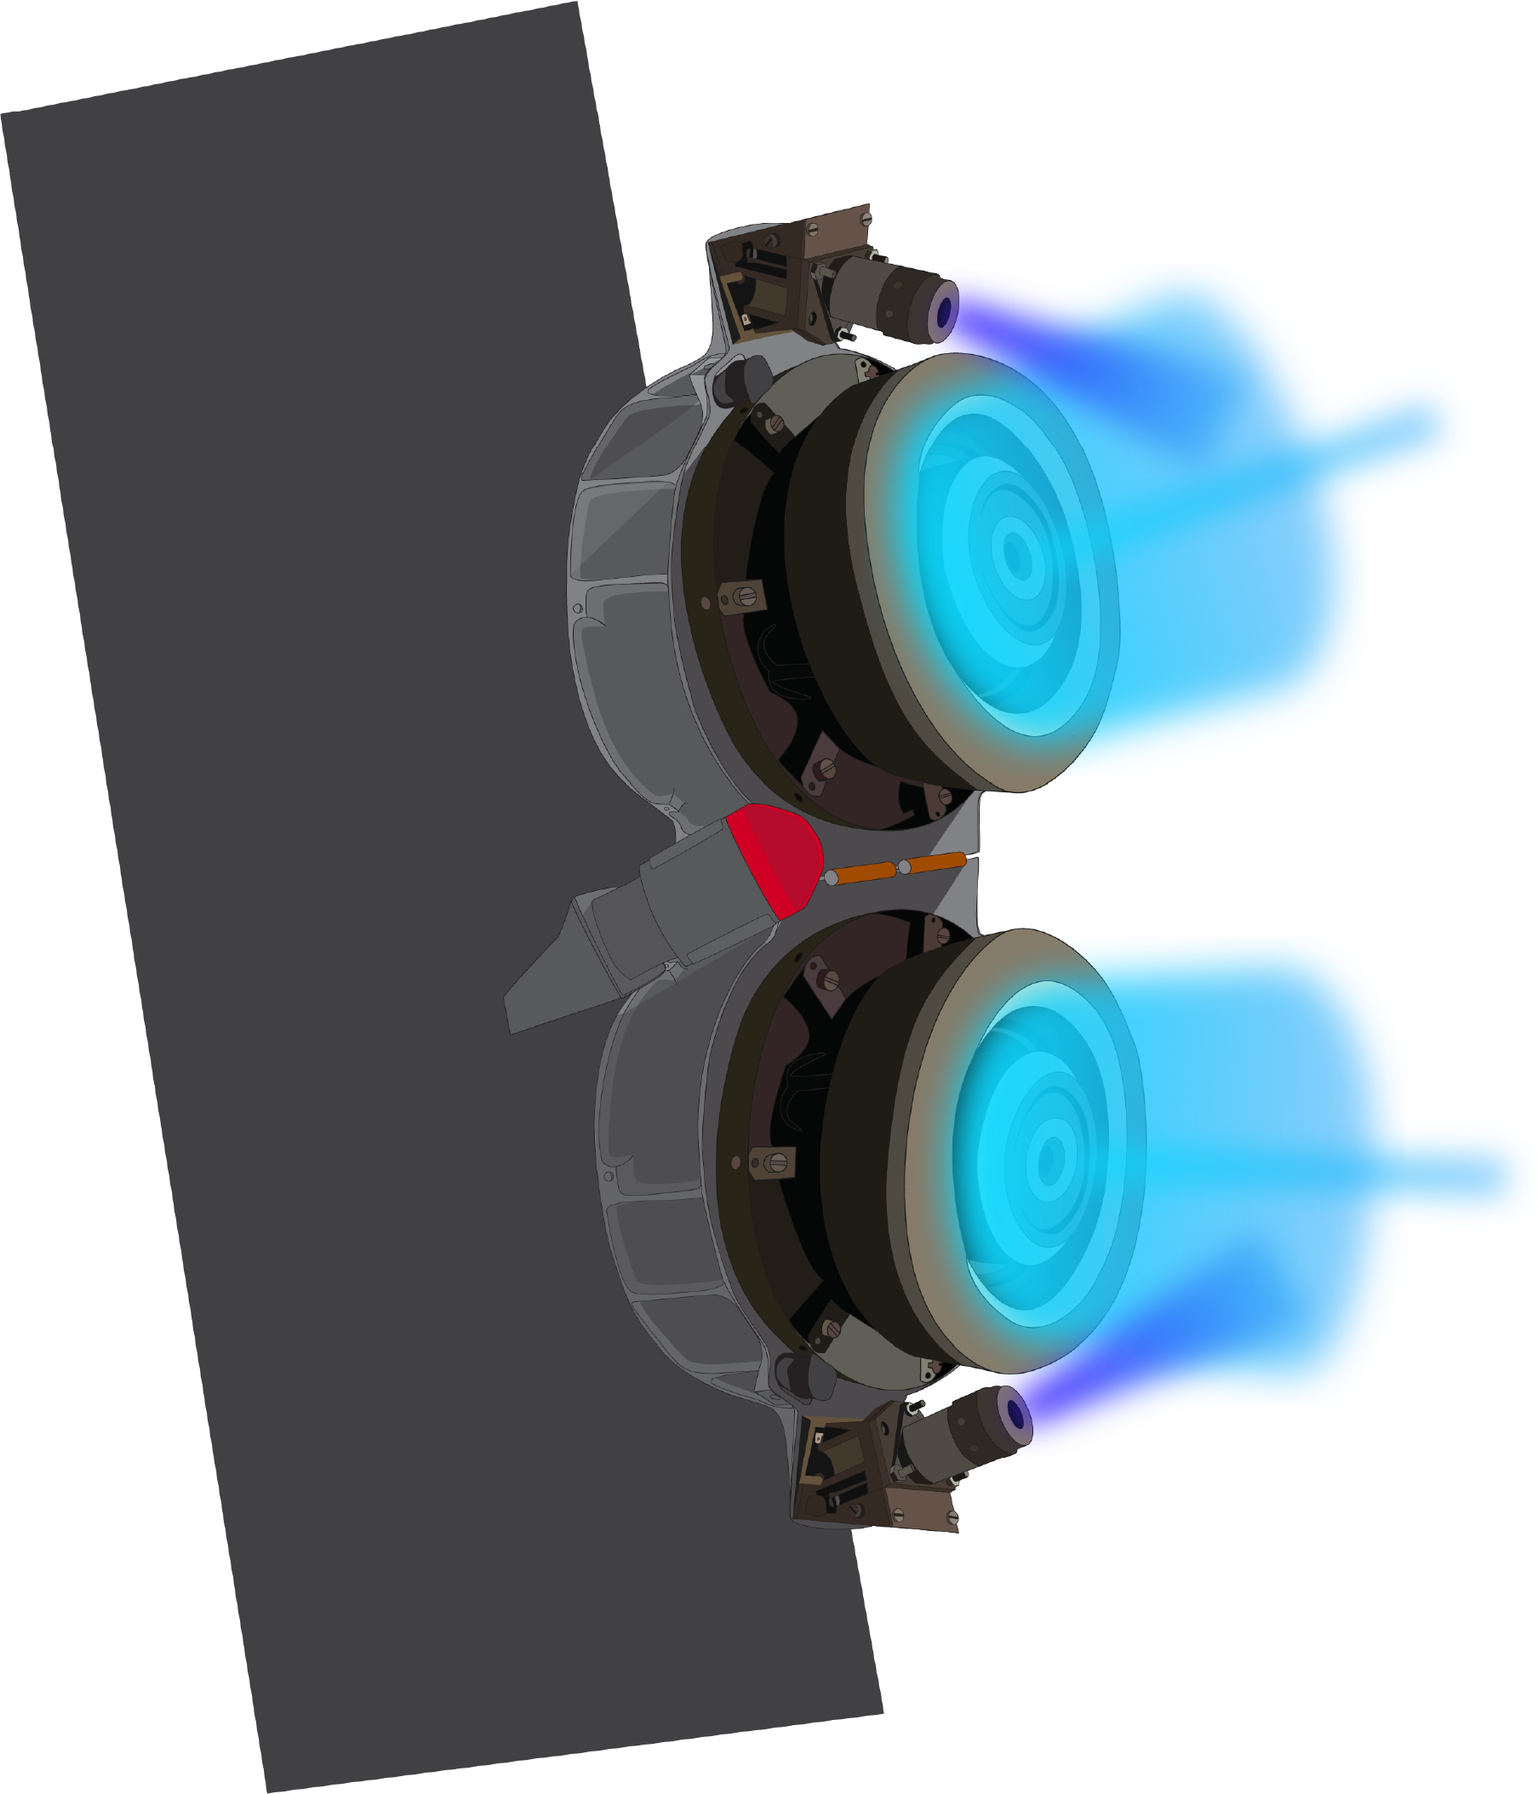
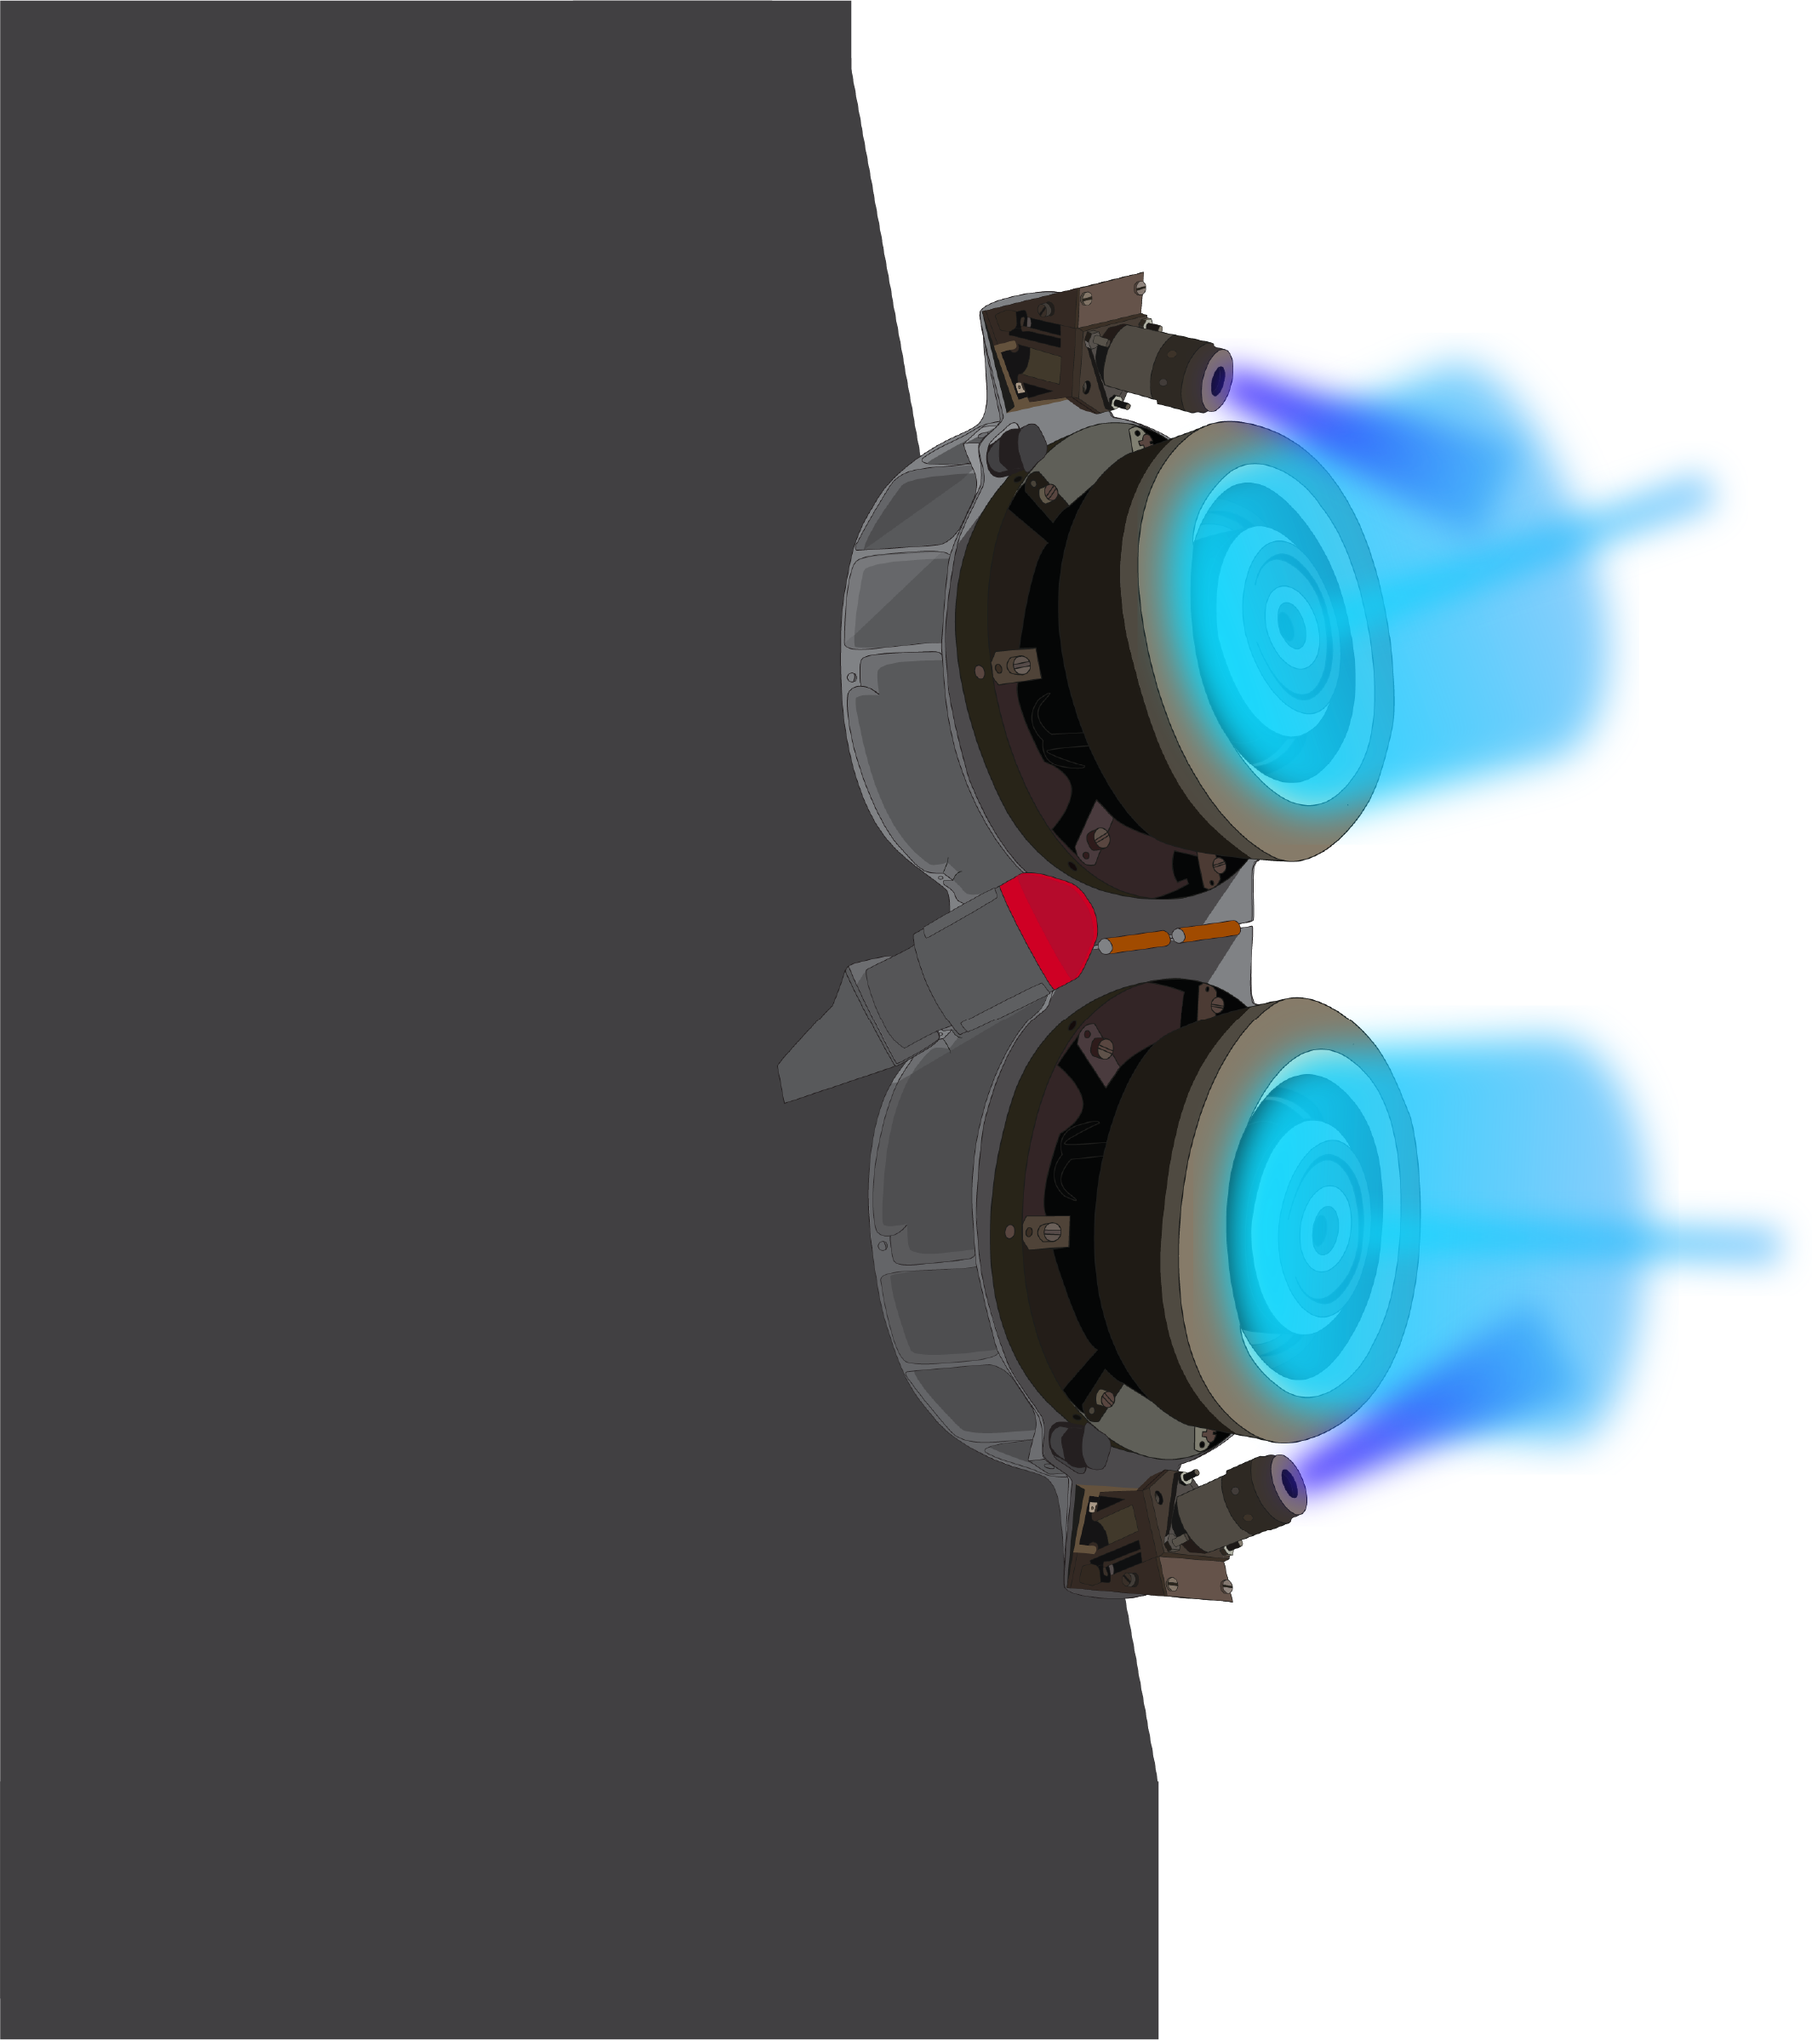
resized hall thruster on / off images

diff --git a/src/index.css b/src/index.css
@@ -99,45 +99,39 @@ code {
 
 #hallThruster{
   position: absolute;
-  height: 82vh;
-  min-height: 350px;
 
-  top: -1vh;
-  left: 10vw;
+  max-width: 47%;
+  height: auto;
+
+  top: -13vh;
+  left: -3vw;
   right: 20vw;
-
-  /*width: 60vw;*/
-  /*min-width: 60vw;*/
 
   z-index: 0;
 }
 
 #hallThrusterOn-fadeIn{
   position: absolute;
-  height: 82vh;
-  min-height: 350px;
 
-  top: -1vh;
-  left: 10vw;
+  max-width: 60%;
+  height: auto;
+
+  top: -13vh;
+  left: -3vw;
   right: 20vw;
-
-  /*width: 60vw;*/
-  /*min-width: 60vw;*/
 
   z-index: 0;
 }
 
 #hallThrusterOn-fadeOut{
   position: absolute;
-  height: 82vh;
-  min-height: 350px;
 
-  top: -1vh;
-  left: 10vw;
+  max-width: 60%;
+  height: auto;
+
+  top: -13vh;
+  left: -3vw;
   right: 20vw;
-
-  /*width: 60vw;*/
-  /*min-width: 60vw;*/
 
   z-index: 0;
 }
